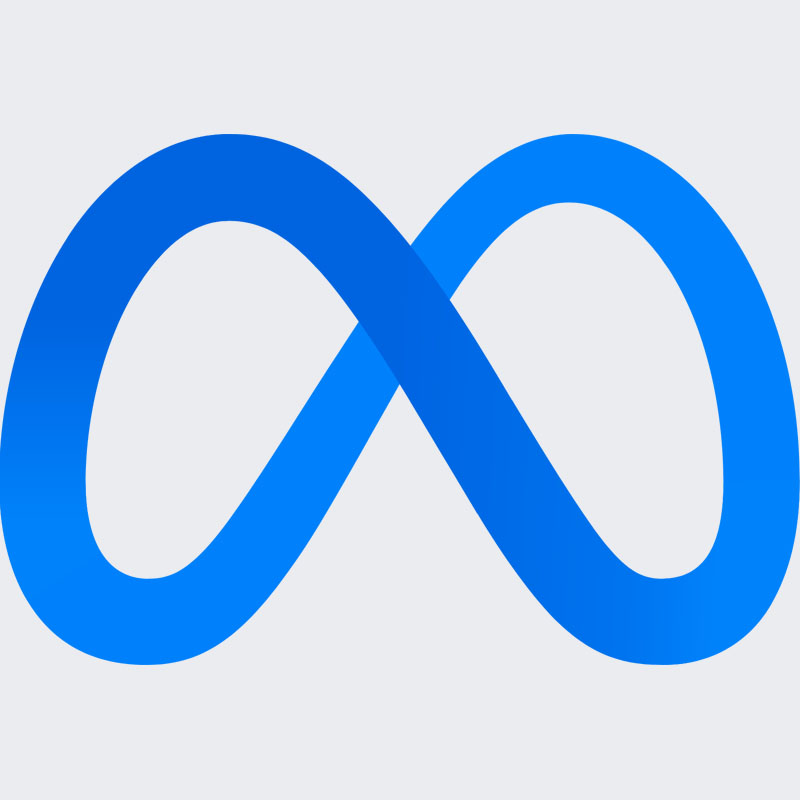
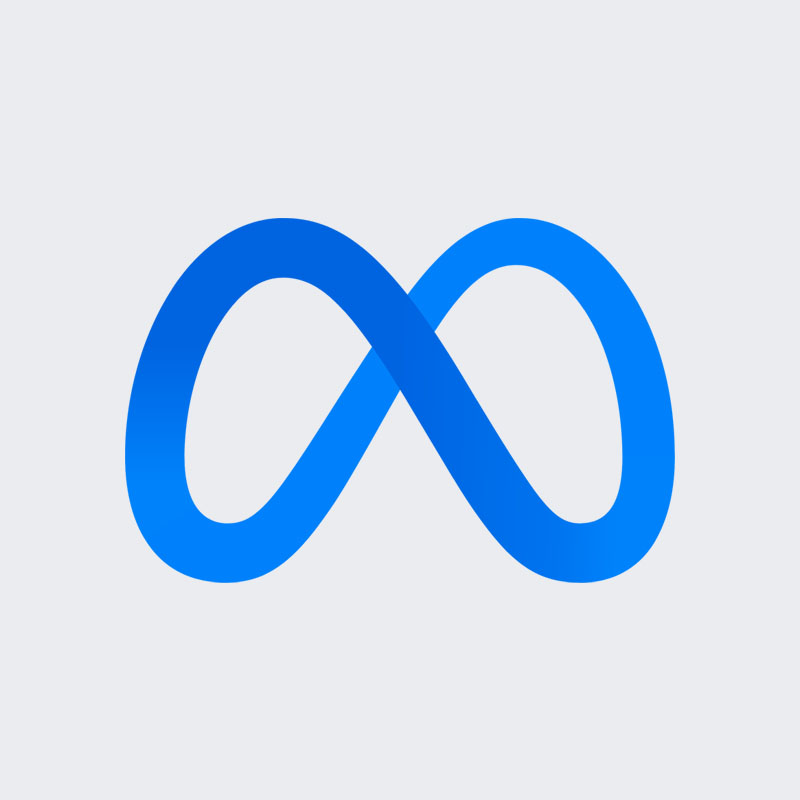
Update work thumbnail image sizes

diff --git a/src/css/work.css b/src/css/work.css
@@ -100,13 +100,9 @@ hr
     overflow: hidden;
     background-color: #ebecf0;
     border-radius: 12px;
+    transform: skewY(-5deg);
     transition: 0.5s ease all;
     cursor: pointer;
-}
-
-.work-page .work-image-container
-{
-    transform: skewY(-5deg);
 }
 
 @media(min-width: 480px)
@@ -153,14 +149,14 @@ hr
     opacity: 1;
 }
 
-.work-page .work-image-container:hover
+.work-image-container:hover
 {
     height: 220px;
 }
 
 @media(min-width: 480px)
 {
-    .work-page .work-image-container:hover
+    .work-image-container:hover
     {
         height: 300px;
     }
@@ -179,41 +175,31 @@ hr
     position: relative;
     object-fit: cover;
     transition: 0.5s ease all;
-}
-
-.work-page .work-image-container img
-{
     transform: skewY(5deg);
-}
-
-#meta img
-{
-    width: 170px;
-    height: 170px;
+    width: 250px;
+    height: 250px;
 }
 
 @media(min-width: 480px)
 {
-    #meta img
+    .work-image-container img
     {
-        width: 220px;
-        height: 220px;
+        width: 325px;
+        height: 325px;
     }
 }
 
 @media(min-width: 750px)
 {
-    #meta img
+    .work-image-container img
     {
-        width: 280px;
-        height: 280px;
+        width: 400px;
+        height: 400px;
     }
 }
 
 #customuse img
 {
-    width: 220px;
-    height: 220px;
     top: 30px;
 }
 
@@ -221,8 +207,6 @@ hr
 {
     #customuse img
     {
-        width: 310px;
-        height: 310px;
         top: 45px;
     }
 }
@@ -231,81 +215,7 @@ hr
 {
     #customuse img
     {
-        width: 400px;
-        height: 400px;
         top: 70px;
-    }
-}
-
-#litho img
-{
-    width: 180px;
-    height: 180px;
-}
-
-@media(min-width: 480px)
-{
-    #litho img
-    {
-        width: 250px;
-        height: 250px;
-    }
-}
-
-@media(min-width: 750px)
-{
-    #litho img
-    {
-        width: 300px;
-        height: 300px;
-    }
-}
-
-#endfield img
-{
-    width: 250px;
-    height: 250px;
-}
-
-@media(min-width: 480px)
-{
-    #endfield img
-    {
-        width: 325px;
-        height: 325px;
-    }
-}
-
-@media(min-width: 750px)
-{
-    #endfield img
-    {
-        width: 400px;
-        height: 400px;
-    }
-}
-
-#other img
-{
-    width: 250px;
-    height: 250px;
-}
-
-@media(min-width: 480px)
-{
-    #other img
-    {
-        width: 325px;
-        height: 325px;
-    }
-}
-
-@media(min-width: 750px)
-{
-    #other img
-    {
-        width: 400px;
-        height: 400px;
     }
 }
 
@@ -324,10 +234,6 @@ hr
     pointer-events: none;
     opacity: 0;
     transition: 0.5s ease all;
-}
-
-.work-page .work-text-container
-{
     transform: skewY(5deg);
 }
 

diff --git a/src/meta.html b/src/meta.html
@@ -32,8 +32,8 @@
       </div>
       <img src="/static/images/work/meta/workrooms-solo-productivity.jpg" alt="Workrooms Solo Productivity">
       <div class="text-container">
-        <p>As a Product Design Prototyper on the Workrooms team it was my job was to design interactions, flows and features for the product. I would build fully functional prototypes of these in Unity so that they could be user tested and validated. Finally, working closely with engineering to see features implemented into the product and shipped.</p>
-        <p>Beyond designing, it was necessary to take a high-level view to identify areas of product that should be worked on, building my influence over strategy, and taking ownership over parts of the product.</p>
+        <p>As a Product Design Prototyper on the Workrooms team it is my job was to design interactions, flows and features for the product. I build fully functional prototypes of these in Unity so that they can be user tested and validated. Finally, I work closely with engineering to see features implemented into the product and shipped.</p>
+        <p>Beyond designing, it is necessary to take a high-level view to identify areas of product that should be worked on, building my influence over strategy, and taking ownership over parts of the product.</p>
       </div>
       <img src="/static/images/work/meta/workrooms-meeting.jpg" alt="Workrooms Meeting">
     </section>
